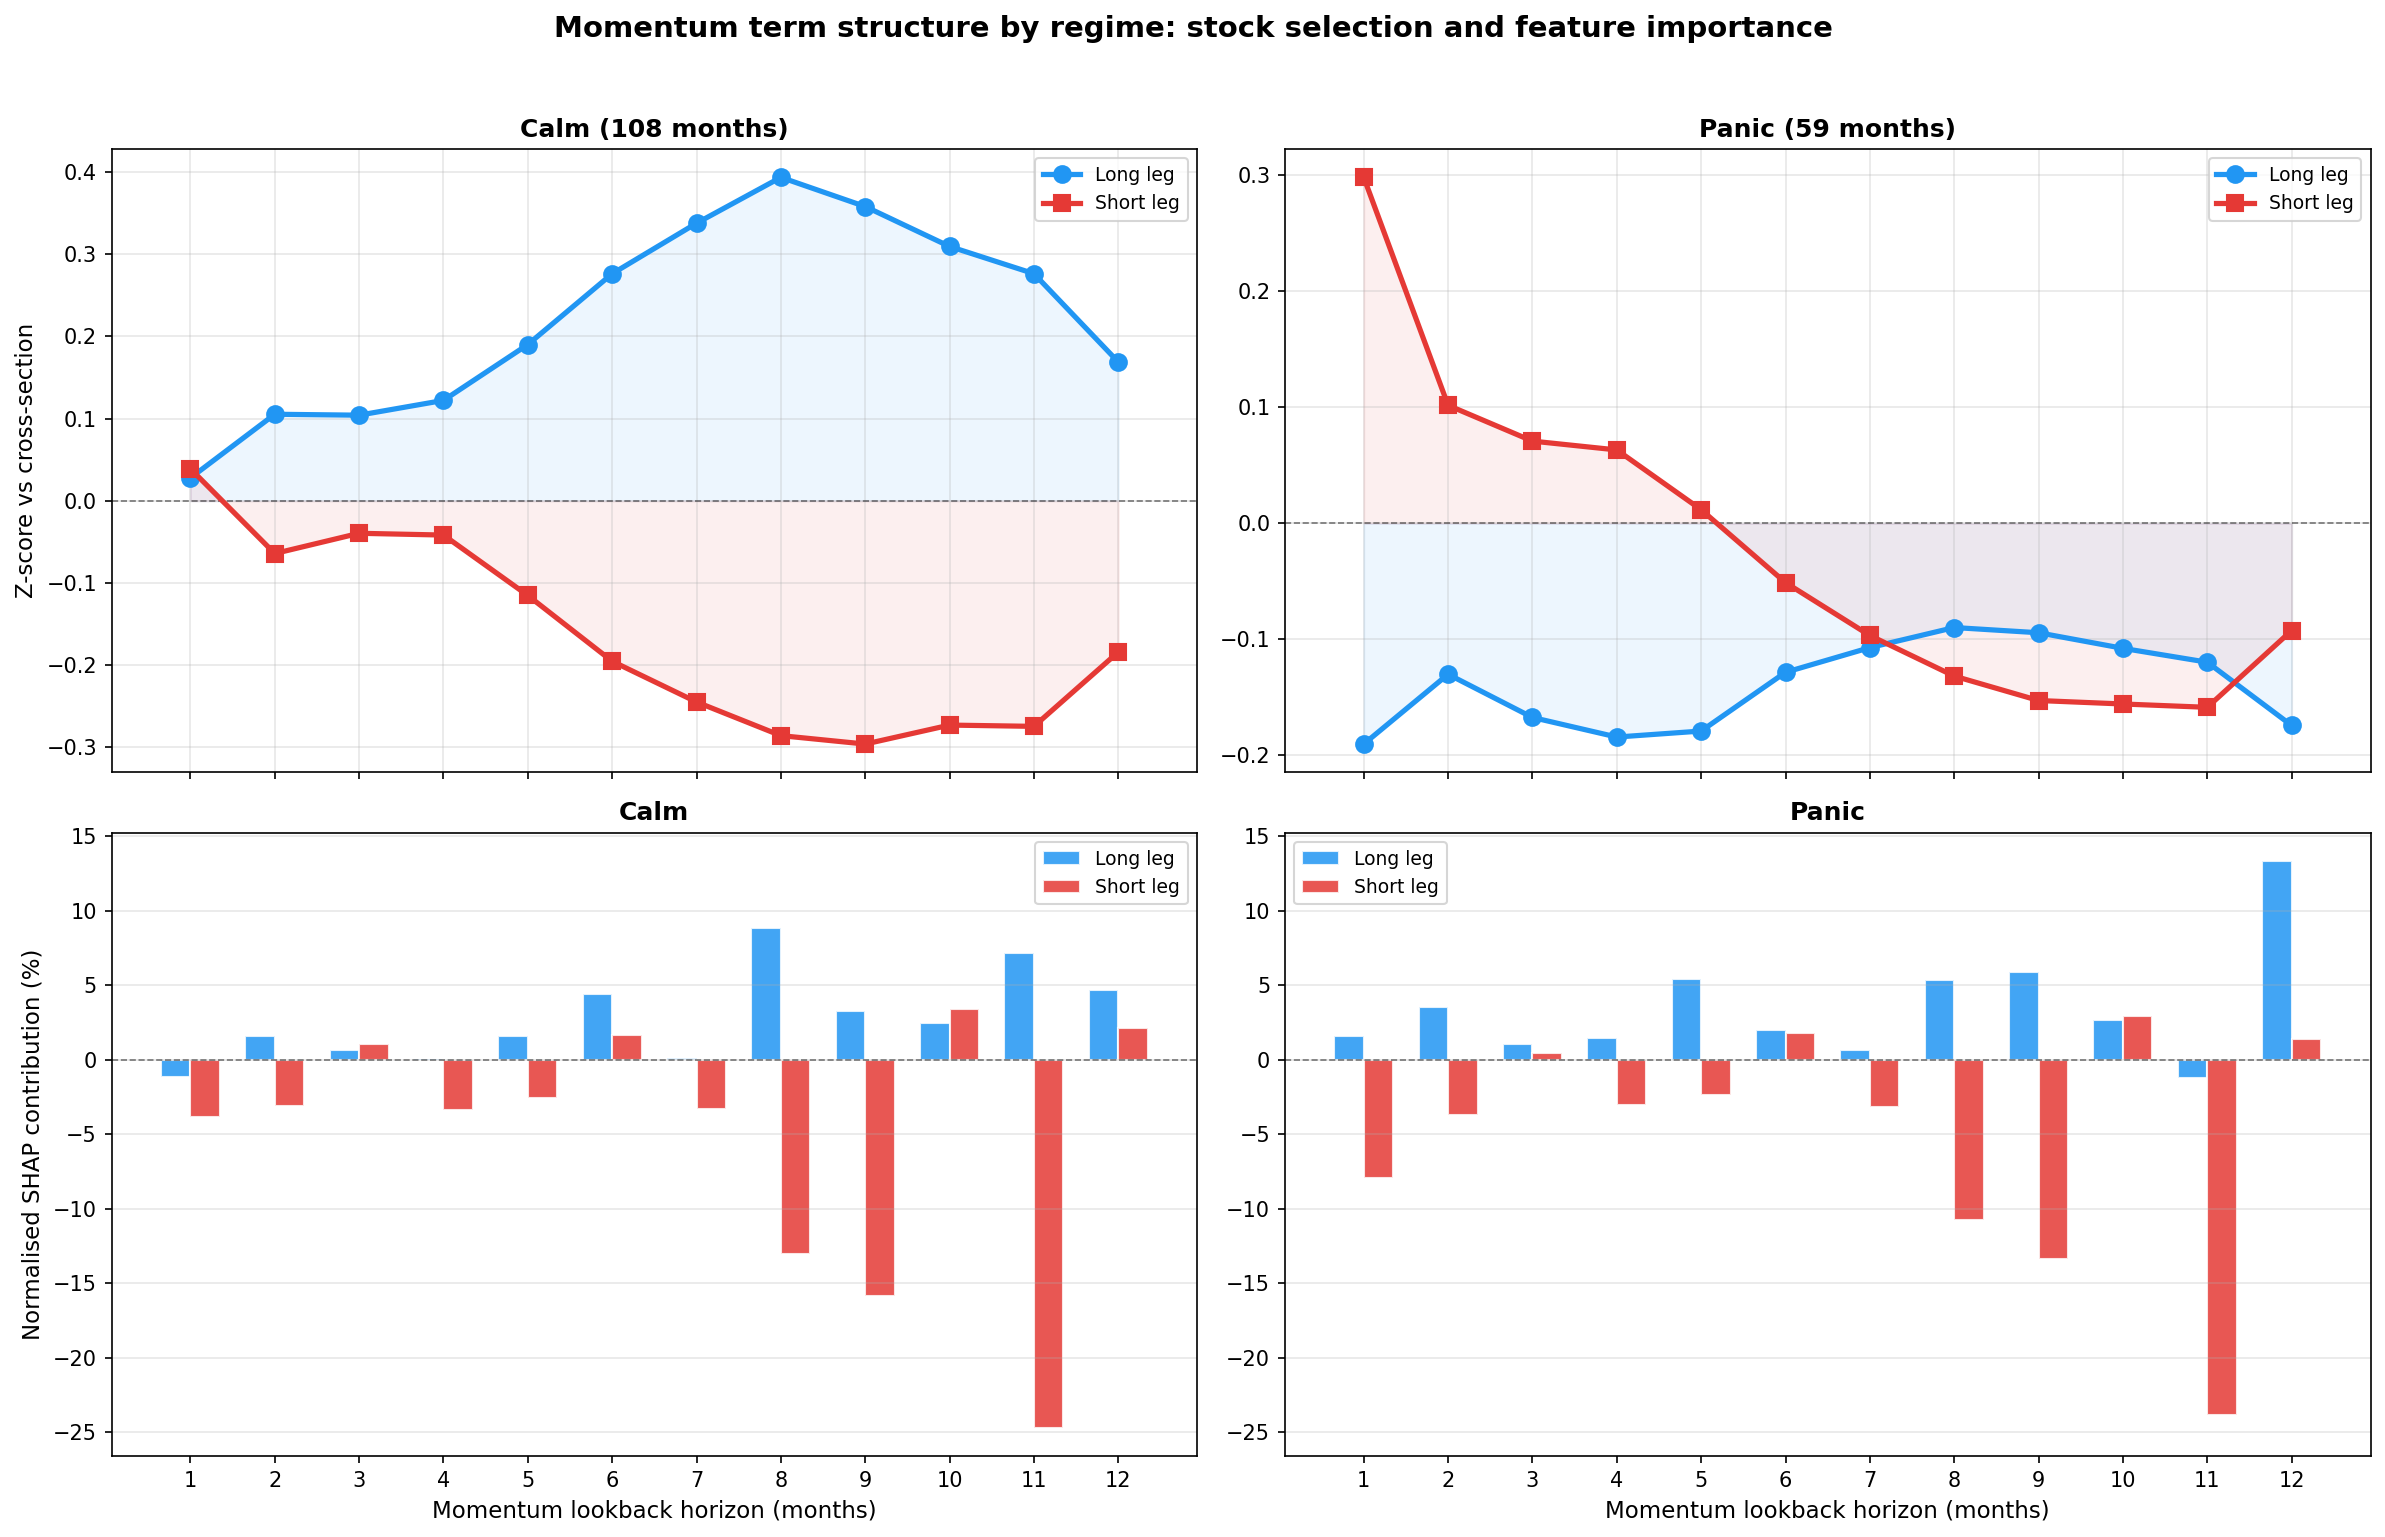
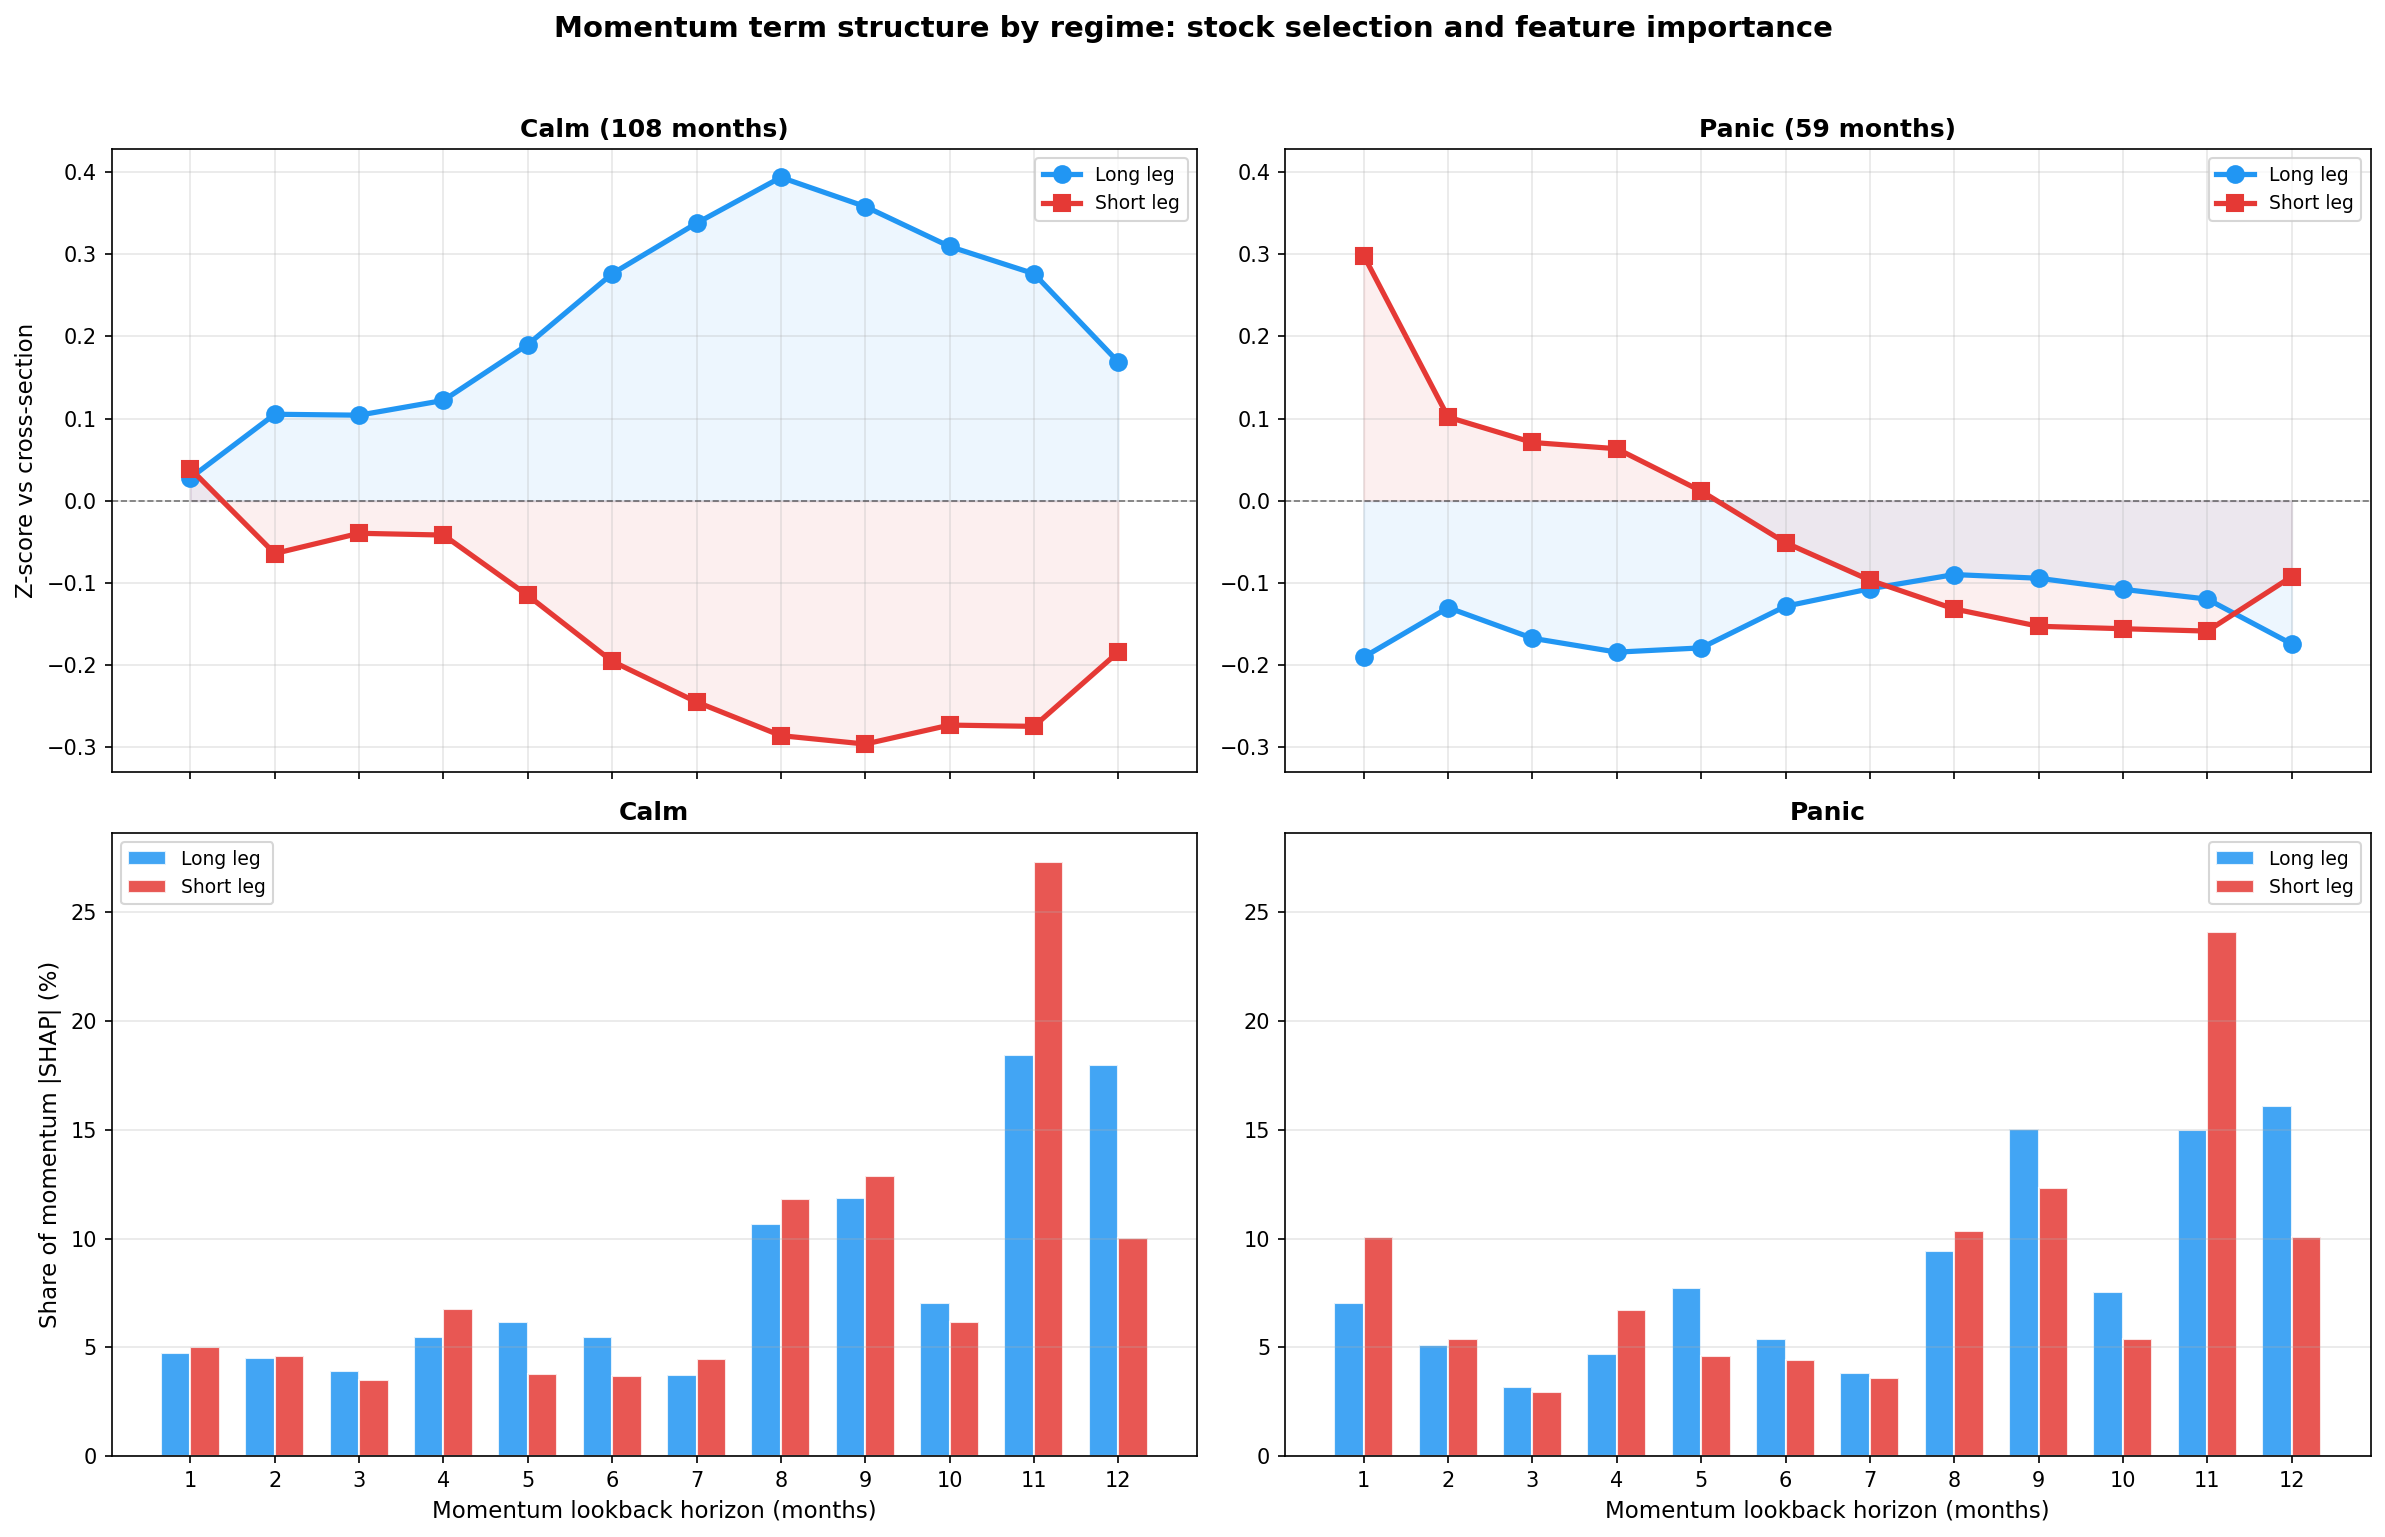
Add z-score + SHAP detail table to appendix, restore shared y-axis and |SHAP| %
- Add table_zscore_shap_detail.tex: 12 horizons x 4 regime-leg groups,
  z-scores and SHAP share side by side
- Restore shared y-axis for z-score panels
- Restore |SHAP| percentage (each leg sums to 100%) for bottom panels

diff --git a/scripts/selection_rank_analysis.py b/scripts/selection_rank_analysis.py
@@ -215,21 +215,19 @@ for regime_val in ['Calm', 'Panic']:
             zs.append(np.mean(monthly_z))
         z_data[(regime_val, leg_val)] = zs
 
-# Signed SHAP normalised per-stock by L1 norm
-signed_shap = {}
+# |SHAP| per leg, each leg sums to 100%
+pct_shap = {}
 for regime_val in ['Calm', 'Panic']:
     for leg_val in ['long', 'short']:
         mask = (regime_arr == regime_val) & (leg_arr == leg_val)
-        sv = shap_values[mask][:, mom_indices]
-        l1 = np.abs(sv).sum(axis=1, keepdims=True)
-        l1 = np.where(l1 == 0, 1, l1)
-        normalized = sv / l1 * 100
-        signed_shap[(regime_val, leg_val)] = normalized.mean(axis=0)
+        abs_shap = np.abs(shap_values[mask][:, mom_indices]).mean(axis=0)
+        pct_shap[(regime_val, leg_val)] = abs_shap / abs_shap.sum() * 100
 
 w = 0.35
 fig, axes = plt.subplots(2, 2, figsize=(16, 10), sharex=True)
 
-# Top row: Z-scores (independent y-axes to show panic crossover clearly)
+# Top row: Z-scores (shared y-axis)
+axes[0, 0].sharey(axes[0, 1])
 for i, regime_val in enumerate(['Calm', 'Panic']):
     ax = axes[0, i]
     ax.plot(x, z_data[(regime_val, 'long')], 'o-', color='#2196F3', linewidth=2.5,
@@ -247,17 +245,14 @@ for i, regime_val in enumerate(['Calm', 'Panic']):
     if i == 0:
         ax.set_ylabel('Z-score vs cross-section', fontsize=11)
 
-# Bottom row: Signed SHAP (shared y-axis)
+# Bottom row: |SHAP| percentage (shared y-axis, each leg sums to 100%)
 axes[1, 0].sharey(axes[1, 1])
 for i, regime_val in enumerate(['Calm', 'Panic']):
     ax = axes[1, i]
-    long_vals = signed_shap[(regime_val, 'long')]
-    short_vals = signed_shap[(regime_val, 'short')]
-    ax.bar(x - w/2, long_vals, w, label='Long leg',
+    ax.bar(x - w/2, pct_shap[(regime_val, 'long')], w, label='Long leg',
            color='#2196F3', alpha=0.85, edgecolor='white')
-    ax.bar(x + w/2, short_vals, w, label='Short leg',
+    ax.bar(x + w/2, pct_shap[(regime_val, 'short')], w, label='Short leg',
            color='#E53935', alpha=0.85, edgecolor='white')
-    ax.axhline(0, color='black', linewidth=0.8, linestyle='--', alpha=0.5)
     ax.set_title(f'{regime_val}',
                  fontsize=12, fontweight='bold')
     ax.set_xticks(x)
@@ -266,7 +261,7 @@ for i, regime_val in enumerate(['Calm', 'Panic']):
     ax.legend(fontsize=9)
     ax.grid(axis='y', alpha=0.3)
     if i == 0:
-        ax.set_ylabel('Normalised SHAP contribution (%)', fontsize=11)
+        ax.set_ylabel('Share of momentum |SHAP| (%)', fontsize=11)
 
 plt.suptitle('Momentum term structure by regime: stock selection and feature importance',
              fontsize=14, fontweight='bold', y=1.02)

diff --git a/tables/table_zscore_shap_detail.tex b/tables/table_zscore_shap_detail.tex
@@ -1,0 +1,27 @@
+\begin{table}[H]
+\centering
+\small
+\begin{tabular}{r rr rr rr rr}
+\toprule
+ & \multicolumn{4}{c}{Z-score} & \multicolumn{4}{c}{SHAP share (\%)} \\
+\cmidrule(lr){2-5} \cmidrule(lr){6-9}
+Horizon & \multicolumn{2}{c}{Calm} & \multicolumn{2}{c}{Panic} & \multicolumn{2}{c}{Calm} & \multicolumn{2}{c}{Panic} \\
+ & Long & Short & Long & Short & Long & Short & Long & Short \\
+\midrule
+1 & +0.03 & +0.04 & -0.19 & +0.30 & 4.8 & 5.0 & 7.0 & 10.1 \\
+2 & +0.11 & -0.06 & -0.13 & +0.10 & 4.5 & 4.6 & 5.1 & 5.4 \\
+3 & +0.10 & -0.04 & -0.17 & +0.07 & 3.9 & 3.5 & 3.2 & 3.0 \\
+4 & +0.12 & -0.04 & -0.18 & +0.06 & 5.5 & 6.8 & 4.7 & 6.7 \\
+5 & +0.19 & -0.12 & -0.18 & +0.01 & 6.2 & 3.8 & 7.7 & 4.6 \\
+6 & +0.28 & -0.20 & -0.13 & -0.05 & 5.5 & 3.7 & 5.4 & 4.4 \\
+7 & +0.34 & -0.24 & -0.11 & -0.10 & 3.7 & 4.5 & 3.8 & 3.6 \\
+8 & +0.39 & -0.29 & -0.09 & -0.13 & 10.7 & 11.8 & 9.4 & 10.4 \\
+9 & +0.36 & -0.30 & -0.09 & -0.15 & 11.9 & 12.9 & 15.0 & 12.3 \\
+10 & +0.31 & -0.27 & -0.11 & -0.16 & 7.0 & 6.2 & 7.5 & 5.4 \\
+11 & +0.28 & -0.27 & -0.12 & -0.16 & 18.5 & 27.3 & 15.0 & 24.1 \\
+12 & +0.17 & -0.18 & -0.17 & -0.09 & 18.0 & 10.0 & 16.1 & 10.1 \\
+\bottomrule
+\end{tabular}
+\caption{Z-score and SHAP share by momentum horizon, regime, and portfolio leg. Z-scores measure how far above or below the cross-sectional average the selected stocks are at each lookback. SHAP share measures each horizon's contribution to the model's momentum decision (each leg sums to 100\%).}
+\label{tab:zscore_shap_detail}
+\end{table}

diff --git a/latex/appendix.tex b/latex/appendix.tex
@@ -353,6 +353,8 @@ To examine which momentum horizons XGBoost conditions on jointly, we trace stock
 
 Tables~\ref{tab:combo_long_cp} and~\ref{tab:combo_short_cp} report the calm-minus-panic z-score difference for the long and short legs, respectively. The long leg table shows uniformly positive entries: the model selects stocks with higher relative momentum in calm at every horizon. The short leg table shows uniformly negative entries: in panic, the short leg shifts toward shorting stocks with higher relative momentum (closer to the cross-sectional average or above it), rather than the deep losers it targets in calm. Together, the two tables confirm that the regime signal reverses the selection direction on both sides of the portfolio while preserving the same horizon interaction structure.
 
+\input{tables/table_zscore_shap_detail}
+
 \input{tables/table_combo_long_cp}
 
 \input{tables/table_combo_short_cp}
